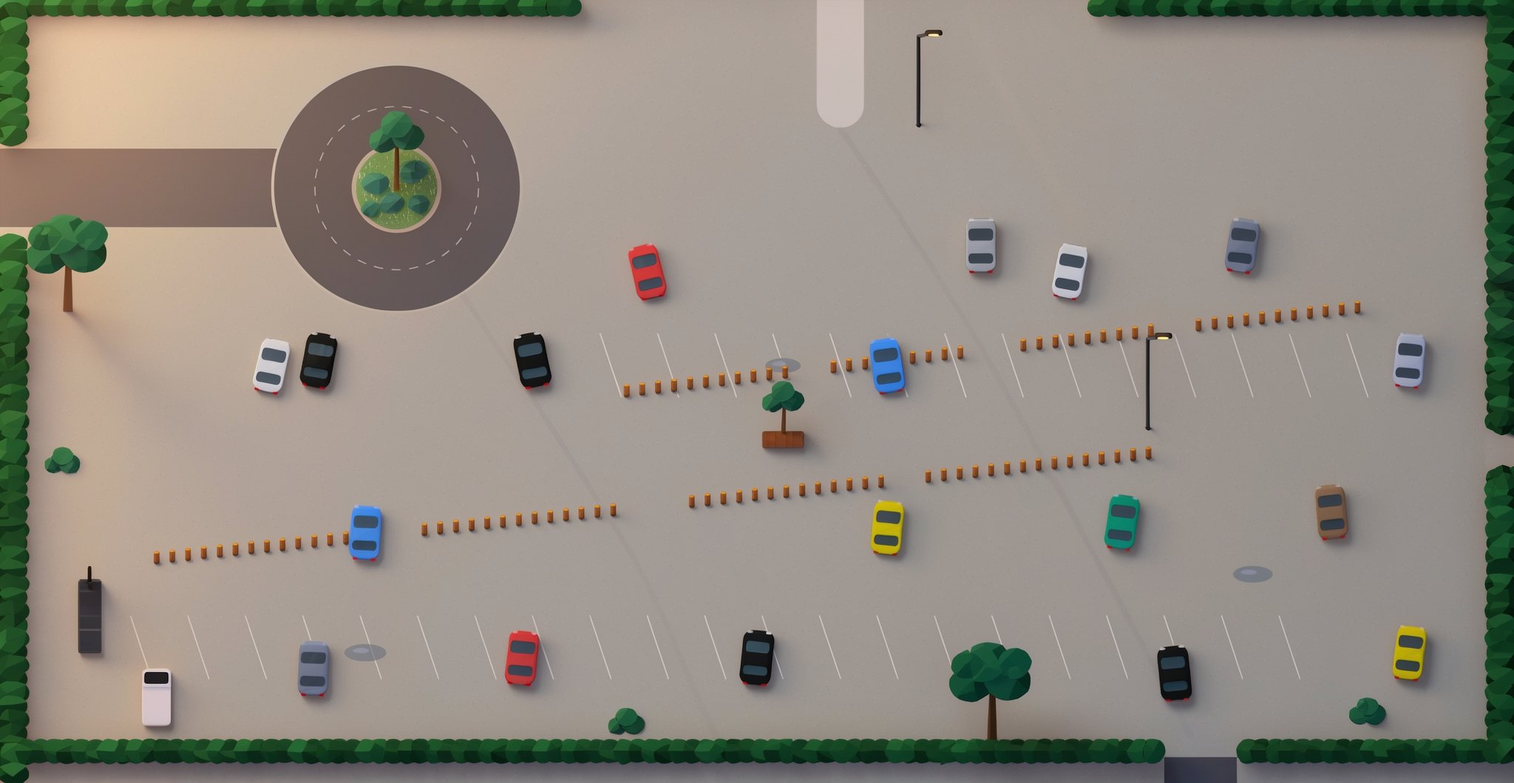
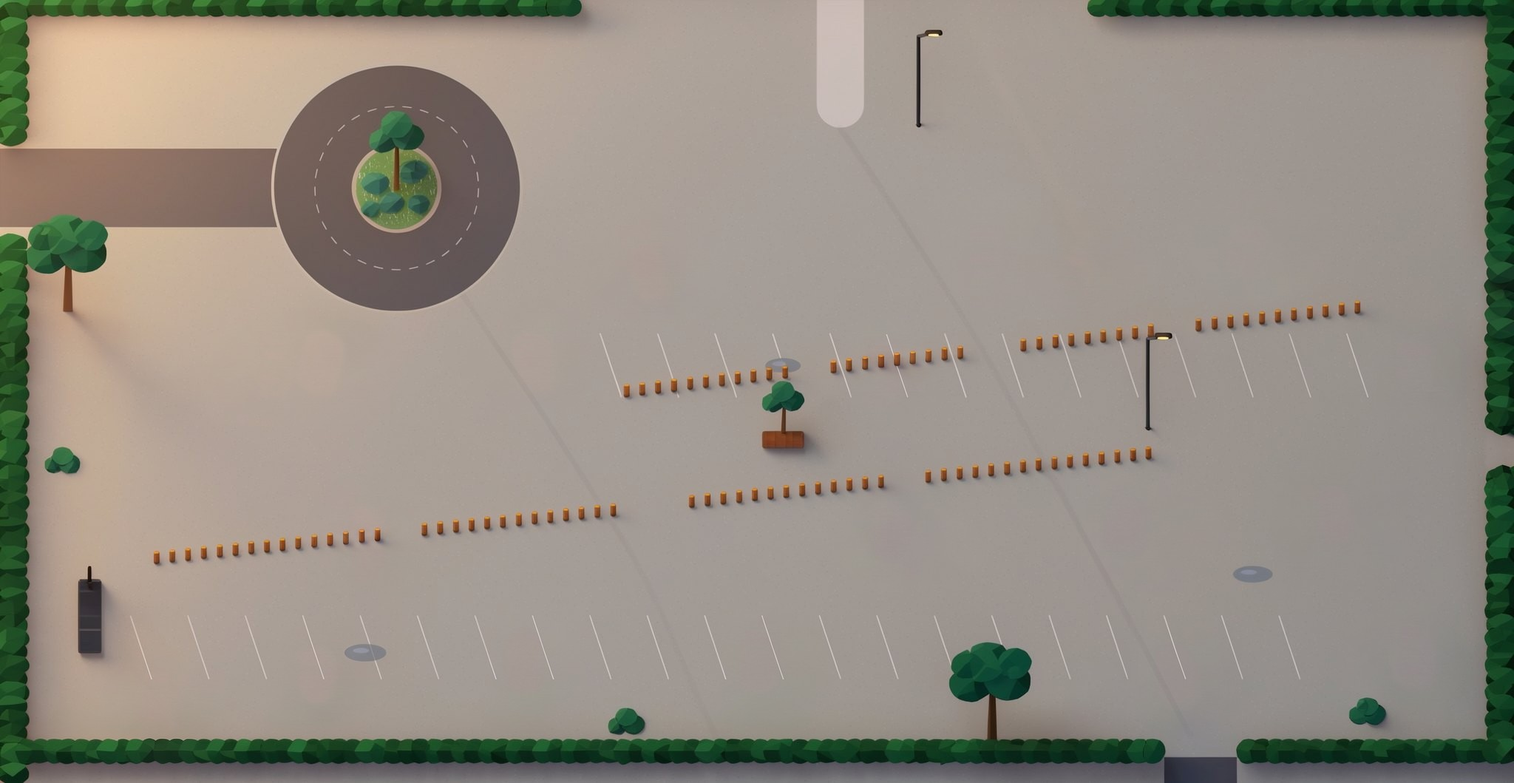
Laufraster aus den gemalten Karten, Figuren kleiner, Laufanimation 4 Bilder, Parkplatz-Autos in Buchten, keine Wegweiser, Tore bleiben offen, Weltkarte einheitlich, Rutschen-Pose, Spielzeit wird mitgespeichert
Claude-Session: https://claude.ai/code/session_01Qhb842PDzUHjhoZQzbWqNn

diff --git a/js/lpwalk.js b/js/lpwalk.js
@@ -1,0 +1,8 @@
+// Laufmasken aus den gemalten Karten (eine Zeile je Zellreihe, 1 = begehbar). Erzeugt aus Bodenfarbe + Möbel-Kernen, nicht von Hand ändern.
+const LP_WALK = {
+  kueche: { gw: 56, gh: 36, rows: '00000000000000000000000000000000000000000000000000000000|00000000000000000000000000000000000000000000000000000000|00000000000000000000000000000000000000000000000000000000|00000000000000000000000000000000000000000000000000000000|00000000000000000000000000000000000000000000000000000000|00000000000000000000000000000000000000000000000000000000|00000011000000000000000000000000000000000000000000000000|00000011000000000000000000000000000000000000000000000000|00000010000000000000000000000000001111000000000000000000|00000001000100010110111110011111111111100000110000000000|00000011111111111111111110011111111111110001111111111000|00000011111000111111111111111111111111111111111111111100|00000011110000110000000011111111111111111111111111111100|00000011110000110000000011111111111111111111111100000000|00000011111001110000000011111111100000000111110000000000|00000011111111110000000000111111100000000111110000000000|00000011111111110000000001111111100000000111110000000000|00000011111111110000000000111111100000000111110000000000|00110011111001110000000000111111100000000111110000000000|00110001111000110000000000111111100000000111110000000000|00100001111000110000000000111111100000000111110000000000|00000001111000110000000000111111100000000111110000000000|00110001111000110000000000111111100000000111110000000000|00111011111111110000000001111111100000000111110000000000|00011111111111110000000000111111100000000111111000000000|00000000000111110000000000111111100000000111111100000000|00000000000110110000000000111111100000000111111110000000|00000000000100110000000000111111100000000111111111100000|00000000000110110000000000111111100000000111111110000000|00000000000110110000000000111111100000000111111110000000|00000000000110110000000011111111100000000111111110000000|00000000000111010000000011111111110000001111111110000000|00000000000100010000000011111111111111111111111110000000|00000000000000011100000111111111111111111111111110000000|00000000000000111111111111111111111111111111111110000000|00000000000000000000000000000000000000000000000000000000' },
+  gastraum: { gw: 60, gh: 40, rows: '000000000000000000000000000000000000000000000000000000000000|000000000000000000000000000000000000000000000000000000000000|000000000000000000000000000000000000000000000000000000000000|000000000000000000000000000000000000000000000000000000000000|000000000000000000000000000000000000000000000000000000000000|000000000000000000000000000000000000000000000000000000000000|000000000000000000000000000000000000000000000000000000000000|000000000000000000000000111111111111111111111111000000000000|000000000000000000000000111100111111111111111111100000000000|000000000000000000000000011000111111111100000111100000000000|000000000000000000000000011000111111111100000111100000000000|000000000000000000000000011000111100000100000111100000000000|000000000000000000000000011000111000000100000111100000000000|000000000000000000000000111000110000000011111111100000000000|000000011111111110000001111111111001100011111111100000000000|000000011111111110000001111111111011110111111111100000000000|000000011111111110000001111111111111011111111111100000000000|000000011111111110000001111111111000000111000001100000000000|000000011111111110000001111111111000000111000001111111111100|000000010000111110000001110000111000000111000001111111111100|000000010000111111100111110000111000000111000001111111111100|001111110000111111111111110000111000000111111111111111111100|001111110000111111111111110000111000000111111111111111100000|001111111000000011111111100000011000000111111111111111000000|001111110000000011111110000000001000000101011111111110000000|001111110000000001111110000000001111111000001111110000000000|001111100000000001111110000000001111111000001111110000011100|001110000000000001111110000000001111111000001111110000110100|001110000000000011111111000000011111111000001111110000000000|001110001000000011111110000000011111111111111111111111000000|001111111000000011111111000000011111111111111111111111000000|001111111000000011111111000000011111111111111111111111000000|001100011000000011111111000000011111101001011011010011000000|001100011110001111111111110001111111000000000000000011000000|001100011111111111111111111111111111000000000000000011000000|001100011111111111111111111111111111000000000000000011000000|001100011111111111111111111111111111110000000000001111100000|000000000000000000000000000000000000000000000000000000000000|000000000000000000000000000000000000000000000000000000000000|000000000000000000000000000000000000000000000000000000000000' },
+  aussen: { gw: 72, gh: 32, rows: '000000000000000000000000000000000000000000000000000000000000000000000000|000000111111111111111111111111111111111111011111111111111111111110011000|000000111111111111111111111111111111111111111111111111111111111110000000|000000111111111111111111111111111111111111111111111111111111111110000000|000000001111111111111111111111111111111111111111111111111111111110000000|000000000111111111111111111111111111111111111111111111111111000110000000|001110000111111100111100111111111111111111111111011011111110111010000000|001110000111111100111100111111110000111111111111000011111100111011100000|001110000111111110011110111101110000111110011111000011111100000011111000|001110000100001110000000111000001001111111011111000011111100000111111100|001111100100001110000000111000001011111111111111000011111100000111111100|001111100100001110000000111000001011111110011111000011111100000111111100|001111100111111110011110111111111011111111011110000011111100000111111100|001111111111111111111111111111111111111111111111100111111111001111111100|001111101111111111111111111111111111111111011111111111111111111101111100|001111000100001110000000111000001000111111011111111111111111110010001100|001111000100001110000000111000001000011111111111111111111111111000011100|001111100100001110000000111000001000011111011111111111111111110000001100|001111100111111110011110111111111000011110011111111111111111110000011100|001111111111111111111111111111111000011111111111111111111111110000011000|001111111111111111111111111111111000011111111111111111111111110000011000|001111111111111111110111111111111111111111111111111111111111110000011000|001111111111111111111111111111111111110011111111111111111111110000000000|001111111111111111111111111111111111000000111111111111111111111111000000|001111111111111111111111111111111111000000111101111111111111111111000000|001111111111111111111000111111111111000000111001111111111111111110000000|001111111111111111111000111100000111000000111111111111111111111110000000|001111111111111111110000111000000111100000111111111111111111111110000000|001111111111111111111111111000000111100000111111111111111111111110000000|001111111111111111111111111111111111100000111111111111111111111110000000|000000000000000000000000000000000000000000000000000000001110000000000000|000000000000000000000000000000000000000000000000000000001110000000000000' },
+  parkplatz: { gw: 116, gh: 60, rows: '00000000000000000000000000000000000000000000000000000000000000000000000000000000000000000000000000000000000000000000|00000000000000000000000000000000000000000000000000000000000000000000000000000000000000000000000000000000000000000000|00011111111111111111111111111111111111111111111111111111111111100011111111111111111111111111111111111111111111111100|00011111111111111111111111111111111111111111111111111111111111100011111111111111111111111111111111111111111111111100|00111111111111111111111111111111111111111111111111111111111111100011111111111111111111111111111111111111111111111100|00111111111111111111111111111111111111111111111111111111111111100011110011111111111111111111111111111111111111111100|00111111111111111111111111111111111111111111111111111111111111100011110011111111111111111111111111111111111111111100|00011111111111111111111111111111111111111111111111111111111111100011110011111111111111111111111111111111111111111100|00011111111111111111111111111101111111111111111111111111111111100011110011111111111111111111111111111111111111111100|00011111111111111111111111111000111111111111111111111111111111110111110011111111111111111111111111111111111111111100|00111111111111111111111111110000011111111111111111111111111111111111111111111111111111111111111111111111111111111100|00000000000001111111111111110000011110111111111111111111111111111111111111111111111111111111111111111111111111111100|00000000000001111111111111100000001110011111111111111111111111111111111111111111111111111111111111111111111111111100|00000000000011111111111111100000001111011111111111111111111111111111111111111111111111111111111111111111111111111100|00000000000111111111111111100000001111101111111111111111111111111111111111111111111111111111111111111111111111111100|00000000101111111111111111100000001111011111111111111111111111111111111111111111111111111111111111111111111111111100|00000000111111111111111111100000001110011111111111111111111111111111111111111111111111111111111111111111111111111100|00000000111111111111111111110000011110011111111111111111111111111111111111111111111111111111111111111111111111111100|00000000111111111111111111111111001000011111111111111111111111111111111111111111111111111111111111111111111111111100|00000000111111111111111111111111000000111111111111111111111111111111111111111111111111111111111111111111111111111100|00000000111111111111111111111111000001111111111111111111111111111111111111111111111111111111111111111111111111111100|00000000111111111111111111111110000011111111111111111111111111111111111111111111111111111111111111111111111111111100|00000000111111111111111111111100000111111111111111111111111111111111111111111111111111111111111111111111111111111100|00000000111111111111111111111000111111111111111111111111111111111111111111111111111111111111111111110000011111111100|00000001111111111111111111111111111111111111111111111111111111111111111111111111111111111110000000000000011111111100|00111111111111111111111111111111111111111111111000000001111100001111100001111111111000000000000000000000111111111100|00111111111111111111111111111111111111111111111000000001111100001111100000111100000000000001111000010000111111111100|00111111111111111111111111111111111111111111111000000001111100000000000000111101111111000001111000010000111111111100|00111111111111111111111111111111111111111111111000000001000000000000000001111111111111000001111000010000111111111100|00111111111111111111111111111111111111111111111000000000000000001111100001111111111111000001111000010000111111111100|00111111111111111111111111111111111111111111111000000001111000001111100001111111111111100011111100010001111111111100|00111111111111111111111111111111111111111111111111111111111001111111111111111111111111100011111111111111111111111100|00111111111111111111111111111111111111111111111111111111111001111111111111111111111111100011111111111111111111111100|00111111111111111111111111111111111111111111111111111111110000111111111111111111111111111111111111111111111111111100|00110111111111111111111111111111111111111111111111111111111000111111111111111111111110000111111111111111111111111100|00100011111111111111111111111111111111111111111111111111111111111111111111100000000000000111111111111111111111111100|00110011111111111111111111111111111111111111111111111111111111111100110000000000011111111111111111111111111111111100|00111111111111111111111111111111111111111111111111111111100000000000110011111111111111111111111111111111111111111100|00111111111111111111111111111111111111111111111111110000000000111111111111111111111111111111111111111111111111111100|00111111111111111111111111111111111111000000000011111111111111111111111111111111111111111111111111111111111111111100|00111111111111111111111111110011000000000001111111111111111111111111111111111111111111111111111111111111111111111100|00111111111111111110000000000011001111111111111111111111111111111111111111111111111111111111111111111111111111111100|00111111111000000000000001111111111111111111111111111111111111111111111111111111111111111111111111111111111111111100|00111111111000011111111111111111111111111111111111111111111111111111111111111111111111111111111111111111111111111100|00111100111111111111111111111111111111111111111111111111111111111111111111111111111111111111111111111111111111111100|00111100111111111111111111111111111111111111111111111111111111111111111111111111111111111111111111111111111111111100|00111100111111111111111111111111111111111111111111111111111111111111111111111111111111111111111111111000111111111100|00111100111000011111000000000000011110000111110000000001111111110000111111111111100001000011110000011000111111111100|00111100111000011111000000000000011110000111110000000001111111110000111111111111100001000011110000011000111111111100|00111100111000011111000000000000011110000111110000000001111111110000111111100111100001000011110000011000111111111100|00111100111000011111000000000000011110000111110000000001111111110000111110000001100001000011110000011000111111111100|00111111111000011111000000000000011110000111110000000001111111110000111110000001100001000011110000011111111111111100|00111111111000011111000110001000111111000111111000100011111111110001111110000001110001000111111000111111111111111100|00111111111001111111111111111111111111111111111111111111111111111111111110000011111111111111111111111111011111111100|00111111111001111111111111111111111111111111111001111111111111111111111111000011111111111111111111111110001111111100|00111111111001111111111111111111111111111111111001111111111111111111111111000011111111111111111111111111001111111100|00000000000000000000000000000000000000000000000000000000000000000000000000000000000000000000000000000000000000000000|00000000000000000000000000000000000000000000000000000000000000000000000000000000000000000000000000000000000000000000|00000000000000000000000000000000000000000000000000000000000000000000000000000000000000000000000000000000000000000000|00000000000000000000000000000000000000000000000000000000000000000000000000000000000000000000000000000000000000000000' },
+  chalet: { gw: 64, gh: 72, rows: '0000000000000000000000000000000000000000000000000000000000000000|0000000000000000000000000000000000000000000000000000000000000000|0111111111111111111111111111111111111111111111111111111111111110|0111111111111111111111111111111111111111111111111111111111111110|0111111111111111111111111111111111111111111111111111111111111110|0111111111111111111111111111111111111111111111111111111111111110|0111111111111111111111111111111111111111111111111111111111111110|0111111111111111111111111111111111111111111111111111111111111110|0111111111111111111111111111111111111111111111111111111111111110|0110000000000000000000000000000000000000000000000011111111111110|0110000000000000000000000000000000000000000000000011111111111110|0110000000000000000000000000000000000000000000000011111111111110|0110000000000000000000000000000000000000000000000011111111111110|0110000000000000000000000000000000000000000000000011111111111110|0110000000000000000000000000000000000000000000000011111111111110|0110000000001111110001110000010100011111111000000011111111111110|0110010000001111110001110000011100011111110000010011111111111110|0110010000100111111111110000011111111111110000010011111111111110|0110010000111111111111111000000011111111110000010011111111111110|0110011111111111111111110000000011111111110000010011111111111110|0110011111111111111111110000000011111111111111110011111111111110|0110011111111111111111111111111111111111111111110011111111111110|0110011111000000000011111111111100000000000111110011111111111110|0110011111000000000011111111111100000000000111110011111111111110|0110011111000000000011111111111100000000000111110011111111111110|0110011111000000000000111111111100000000000111110011111111111110|0110011111110000000000111111111111000000000111110011111111111110|0110011111111111111111111111111011111111111111110011111111111110|0110011111111111111111111111111111111111111111110011111111111110|0110011111111111111110000000000011111111111111110011111111111110|0110010001111111111110000000000011111111111110010011111111111110|0110010001111111111110000000000011111111111110010011111111111110|0110010001111111111110000000000011111111111110010011111111111110|0110011111111111111110000000000001111111111111110011111111111110|0110011111111111111111100000000011111111111111110011111111111110|0110011111101111111111111111111111111111111111110011111111111110|0110011111001111111110000000000011111111111111110011111111111110|0110011111000111111110000000000011111111111000110011111111111110|0110011000000111111110000000000011111111111000110011111111111110|0110011000111111111110000000000011111111001000110011111111111110|0110011111111111111110000000000011111111001101110011111111111110|0110000000000000000111000000000000000000000000000011111111111110|0110000000000000001111000000000000000000000000000011111111111110|0111111111111110011111111111111111100001111111111111111111111110|0100001111111110011111111111111111100001111111111111111111111110|0100001111111110011111111111100000100001111111111111000000001110|0100001111111100011111111111000000000001111111111111000000001110|0100001111111111111111110001000000000001111111111111000000000000|0100001111100111111111110001000000011011111111111111110001110000|0110111111100111111111110001111111111111111111000011111111110000|0111111111100111111111111111111111111111111111000011111111110000|0111111011100111111111111111111111111111111111000011111111110000|0111110001111111111111111111111111111111111111000011111111111000|0111110011111111111111100111111111111111111111000011111111111110|0111111111111111111111100111111111111111111111000111111111111110|0111111111111111111111100111111111111111111111001111111110000110|0111111111111111111111111111111111111111111111001111111110000110|0111111000000111111111111111111111111111111111111111111110000110|0111111000110000111111111111111111111111111111111111111110000110|0111111111110000111111111111111111111111111111111111111110000110|0110000111110000111111111111111111111111111111111111111111001110|0110000111110000111111111111111111111111111111111111111111111110|0110000111110000111111111111111110001111111111111111000111111110|0110000111110000111111111111111110001100001111111111000111111110|0110000111111111111111111111111111000100001111111111000110000110|0110000111111110011111111111111111000100001111111111000110000110|0111011111111110011111100011111111000100001111111111111110000110|0110001111111110011111100011111111111100001111111111111110000110|0110001111111111111111111111111111111110011111111111111110000110|0000000000000000001111000000000000000000000000000000000000000000|0000000000000000000000000000000000000000000000000000000000000000|0000000000000000000000000000000000000000000000000000000000000000' },
+};

diff --git a/js/lowpoly.js b/js/lowpoly.js
@@ -9,14 +9,14 @@ const LP = {
     kueche: { map: 'assets/lowpoly/kueche/map.jpg?v=2', staff: { k_nina: 'nina', k_tom: 'tom', k_luca: 'luca', k_marco: 'marco', k_lea: 'lea' } },
     gastraum: { map: 'assets/lowpoly/gastraum/map.jpg?v=2', staff: {} },
     aussen: { map: 'assets/lowpoly/aussen/map.jpg?v=1', staff: {} },
-    parkplatz: { map: 'assets/lowpoly/parkplatz/map.jpg?v=2', staff: {} },
+    parkplatz: { map: 'assets/lowpoly/parkplatz/map.jpg?v=3', staff: {} },
     uebung: { map: 'assets/lowpoly/uebung/map.jpg?v=1', staff: {} },
     chalet: { map: 'assets/lowpoly/chalet/map.jpg?v=2', staff: {} },
     spielplatz: { map: 'assets/lowpoly/spielplatz/map.jpg?v=3', staff: {}, roof: [518, 395, 288, 168] },   // Schaukelgerüst, Rutsche, Treppe, Häuschen sind im Bild; Dach extra (wird durchsichtig)
   },
   zoomK: 0.72,   // Zoom in allen Bereichen gleich (Küche als Maß)
   playerArt: true,   // gemalte Spielfigur (Löwe/Bär/Hund); andere Tiere zeichnen weiter die alte Figur
-  catH: 96, staffH: 118, part: 2,   // Kamera: man sieht etwa 1/2 des Raums, auf jedem Bildschirm gleich
+  catH: 74, staffH: 90, part: 2,   // Kamera: man sieht etwa 1/2 des Raums, auf jedem Bildschirm gleich
     // Figurengröße passend zu den Möbeln im Bild
   img: {}, ready: false, runs: {},
   player: { face: 'front', flip: 1, dist: 0, lx: null, ly: null },
@@ -68,6 +68,7 @@ function lpOcclude(c, x, y, w, h) {
     c.drawImage(im, cx * CELL * sx, cy * CELL * sy, CELL * sx, CELL * sy, cx * CELL, cy * CELL, CELL + 0.5, CELL + 0.5);
   }
 }
+const LP_STEP = [0, 1, 3, 4];   // Laufbilder 3 und 6 stehen fast still (hakt) – nur die 4 Schrittbilder
 function lpSprite(c, im, x, y, h, flip = 1, bob = 0, tilt = 0) {
   const w = h * im.naturalWidth / im.naturalHeight;
   c.save(); c.translate(x, y);
@@ -91,7 +92,8 @@ function lpDrawPlayer(c, p, x, y, tilt, kind) {
     if (Math.abs(dx) > Math.abs(dy) * 0.8) { P.face = 'side'; P.flip = dx < 0 ? -1 : 1; } else P.face = dy < 0 ? 'back' : 'front';
     P.dist += d;
   }
-  const im = (p.moving && lpSpr(`${set}${P.face}_${Math.floor(P.dist / 11) % 6}`)) || lpSpr(set + 'stand_front');
+  if (p.slide) { const sim = lpSpr(set + 'stand_side') || lpSpr(set + 'stand_front'); lpSprite(c, sim, x, y + 6, LP.catH * 0.92, 1, 0, 0.42); P.face = 'side'; P.flip = 1; return true; }   // Rutschen: seitlich, nach vorn geneigt wie die Rutsche
+  const im = (p.moving && lpSpr(`${set}${P.face}_${LP_STEP[Math.floor(P.dist / 14) % 4]}`)) || lpSpr(set + 'stand_front');
   lpSprite(c, im, x, y, LP.catH, p.moving && P.face === 'side' ? P.flip : 1, p.moving ? 0 : Math.sin(p.t * 2.2) * 0.6, tilt || 0);
   return true;
 }
@@ -227,13 +229,13 @@ function lpPigeonWrap(orig) {
     c.save(); c.translate(x, y); c.scale(dir < 0 ? -1 : 1, 1); c.drawImage(im, -w / 2, -h, w, h); c.restore();
   };
 }
-// Leute (Gäste, Kinder, Kellner …): gemaltes Bild, 25 % größer als die alte Figur, leichtes Wippen; winken = kleiner Hüpfer
+// Leute (Gäste, Kinder, Kellner …): gemaltes Bild, etwa so groß wie die alte Figur (passend zu Stühlen/Tischen), leichtes Wippen; winken = kleiner Hüpfer
 const LP_LEUTE = new Set(["a_hoffmann", "a_klaus", "a_mila", "a_noah", "a_ober", "a_weber", "c_anna", "c_berger", "c_felix", "c_gerda", "c_sepp", "c_toni", "eule", "fuchs", "g_becker", "g_ben", "g_jonas", "g_lina", "g_rosi", "g_s1", "g_s2", "g_s3", "g_s4", "g_schulz", "g_sophie", "hase", "igel", "leo", "olli", "p_julia", "p_karl", "p_petra", "p_schmidt", "p_tim", "waschbaer"]);   // nur für diese gibt es Bilder
 function lpPersonWrap(orig, kind) {
   return function (c, id, x, y, s, t, o = {}) {
     const im = LP_LEUTE.has(id) && lpSpr('leute/' + id);
     if (!im) return orig.apply(this, arguments);
-    const B = lpMeasure(kind + '_' + id, (g, gx, gy) => orig(g, id, gx, gy, 1, 0, { noShadow: true, staff: true })), h = B.h * s * 1.25, w = im.naturalWidth * h / im.naturalHeight;
+    const B = lpMeasure(kind + '_' + id, (g, gx, gy) => orig(g, id, gx, gy, 1, 0, { noShadow: true, staff: true })), h = B.h * s * 0.96, w = im.naturalWidth * h / im.naturalHeight;
     const bob = o.wave ? Math.abs(Math.sin((t || 0) * 6)) * 4 * s : Math.abs(Math.sin((t || 0) * 1.6 + (o.ph || x))) * 1.2 * s;
     if (!o.noShadow) { c.save(); c.fillStyle = 'rgba(40,25,10,.25)'; ell(c, x, y - 1, w * 0.36, 5 * s); c.fill(); c.restore(); }
     c.drawImage(im, x - w / 2, y - h - bob - (o.sit ? -h * 0.12 : 0), w, h);
@@ -293,7 +295,7 @@ function lpAnimalWrap(orig) {
     const have = new Set(LP_SKIN_HAVE[kind] || []), sk = id && SKINS[id];
     const dir = id && have.has(id) ? id : sk && sk.uniform && have.has('u_' + sk.uniform) ? 'u_' + sk.uniform : 'basis';
     const base = 'spieler/' + kind + '/' + dir + '/', t = o.t || 0;
-    const im = (o.moving && lpSpr(base + 'side_' + (Math.floor(t * 10) % 6))) || lpSpr(base + 'stand_front') || lpSpr('spieler/' + kind + '/basis/stand_front');
+    const im = (o.moving && lpSpr(base + 'side_' + LP_STEP[Math.floor(t * 8) % 4])) || lpSpr(base + 'stand_front') || lpSpr('spieler/' + kind + '/basis/stand_front');
     if (dir !== 'basis' && !lpSpr(base + 'stand_front')) LP_MISS = true;   // Kostüm-Bild lädt noch: Karte nicht mit der Grundfigur merken
     if (!im) { LP_MISS = true; return orig.apply(this, arguments); }
     const B = lpMeasure('animal_' + kind, (g, gx, gy) => orig(g, kind, gx, gy, 1, { noShadow: true, look: DEFAULT_LOOK, noOutfit: true }));
@@ -419,3 +421,7 @@ function lpFogPatch() {
   };
 }
 if (document.readyState === 'loading') document.addEventListener('DOMContentLoaded', lpFogPatch); else setTimeout(lpFogPatch, 0);
+
+// Deko, die im Low-Poly-Modus trotzdem als Sprite gezeichnet wird (nicht im Bodenbild): Autos auf dem Parkplatz
+const LP_DECOR_KEEP = { parkplatz: new Set(['auto']) };
+function lpKeep(id, d) { const K = LP_DECOR_KEEP[id]; return !!(K && K.has(d.t)); }

diff --git a/js/stage.js b/js/stage.js
@@ -83,10 +83,17 @@ function buildGridSpielplatz() {
 const SOFT_DECOR = /tisch|palm|olive|baum|tanne|busch|lampe|laterne|pfosten|treppe|pylon|poller|cypress/;
 function solidDecor() {
   if (!SG || SG.id === 'spielplatz' || !DECOR) return;
+  const MW = typeof LP_WALK !== 'undefined' && typeof LP !== 'undefined' && LP.on && LP.stages[SG.id] && LP_WALK[SG.id];
+  if (MW) {   // gemalte Karte: begehbar ist, was auf dem Bild Boden ist (Laufmaske aus js/lpwalk.js)
+    const R = MW.rows.split('|');
+    for (let y = 0; y < MW.gh; y++) for (let x = 0; x < MW.gw; x++) if (R[y][x] === '0') G0[cellIdx(x * CELL + 12.5, y * CELL + 12.5)] = 0;
+    return;
+  }
   for (const d of DECOR) {
     if (!d.bb || SOFT_DECOR.test(d.t)) continue;
     // gesperrt wird nur der Bereich HINTER dem Möbel (zwischen Oberkante des Bildes und der Standfläche) – dort würde man verdeckt
-    const [bx, by, bw] = d.bb, foot = d.w ? d.y0 : d.y - (d.r || 20);
+    const [bx, by, bw, bh] = d.bb, foot = d.w ? d.y0 : d.y - (d.r || 20);
+    if (typeof LP !== 'undefined' && LP.on && LP.stages[SG.id]) { cellsIn(bx + 8, by + 8, bx + bw - 8, by + bh - 4, i => { G0[i] = 0; }); continue; }   // gemalte Draufsicht: ganzes Möbel samt Stühlen ist fest
     if (foot - by > 30) cellsIn(bx + 10, by + 6, bx + bw - 10, foot, i => { G0[i] = 0; });
   }
 }
@@ -383,7 +390,7 @@ class Play {
     if (opt.cam) { this.camX = opt.cam.x; this.camY = opt.cam.y; }
     this.entered = !!opt.enter;
     this.joy = null; this.pending = null; this.toast = null; this.t = 0; this.searching = null; this.exiting = null; this.sitting = null;
-    this.gateA = this.st.done.gate ? 1 : 0;
+    this.gateA = this.gateOpenNow() ? 1 : 0;
     this.idleT = 0; this.coachSaid = {};
     if (!this.st.secret) this.st.secret = {};
     this.slides = [];
@@ -801,7 +808,7 @@ class Play {
     for (const id in this.npcAnim) { const a = this.npcAnim[id]; a.wave = Math.max(0, a.wave - dt); a.jump = Math.max(0, a.jump - dt); }
     if (this.toast) { this.toast.t += dt; if (this.toast.t > 2.2) this.toast = null; }
     if (this.banner) { this.banner.t += dt; if (this.banner.t > 3.2) this.banner = null; }
-    this.gateA = lerp(this.gateA, this.st.done.gate ? 1 : 0, Math.min(1, dt * 3));
+    this.gateA = lerp(this.gateA, this.gateOpenNow() ? 1 : 0, Math.min(1, dt * 3));
     const hase = this.npcs.find(n => n.swing !== undefined);
     if (hase) { const off = this.seatOff(hase.swing); hase.y = SWING.y + off; hase.z = 24 + Math.abs(off) * 0.35; }
     { const bq = this.bonusQuest();
@@ -853,7 +860,7 @@ class Play {
   updatePlayer(dt) {
     const p = this.p, spd = ABIL_VAL.turbo[ability('turbo')];
     if (p.slide) {
-      p.slide.t += dt / 0.8; const e = Math.min(1, p.slide.t * p.slide.t);
+      p.slide.t += dt / 1.15; const e = Math.min(1, p.slide.t * p.slide.t);
       p.x = lerp(SLIDE.x0 + 8, SLIDE.x1 + 10, e); p.slideZ = HOUSE.fz * (1 - (p.x - SLIDE.x0) / (SLIDE.x1 - SLIDE.x0)); p.dir = 1; p.moving = false;
       if (p.slide.t >= 1) {
         p.slide = null; p.level = 0; p.x = SLIDE.x1 + 12; p.slideZ = 0; const s = this.w2s(p.x, p.y); FX.puff(s.x, s.y, 10); Sfx.play('good'); buzz(30);
@@ -917,6 +924,7 @@ class Play {
     }
   }
   // ---- Suchen ----
+  gateOpenNow() { return !!(this.st.done.gate || (typeof areaCleared === 'function' && !this.mp && areaCleared(this.diff, this.stage))); }   // einmal geschafft = Tor bleibt für immer offen
   canSearch() { const q = this.st.active; return (this.diff !== 'easy' || !!(q && q.team)) && !!q && q.got.some((g, i) => !this.off(q, i)); }
   startSearch() {
     if (this.searching || !this.canSearch() || this.p.slide) return;
@@ -1259,6 +1267,7 @@ class Play {
     const vis = (x, y) => x > vx0 && x < vx1 && y > vy0 && y < vy1;
     const benchRaw = (g, d, sx) => { g.fillStyle = 'rgba(0,0,0,.2)'; ell(g, d.x, d.y + 12, 48, 8); g.fill(); rrPath(g, d.x - 43 + sx, d.y - 18, 86, 12, 4); fs(g, '#a0673a', 3); rrPath(g, d.x - 43 + sx, d.y - 2, 86, 12, 4); fs(g, '#8d5a3b', 3); rrPath(g, d.x - 38, d.y + 8, 8, 10, 2); fs(g, '#495057', 2); rrPath(g, d.x + 30, d.y + 8, 8, 10, 2); fs(g, '#495057', 2); };
     const lampRaw = (g, d) => { g.fillStyle = 'rgba(0,0,0,.2)'; ell(g, d.x, d.y, 12, 4); g.fill(); line(g, d.x, d.y, d.x, d.y - 170, 5, '#adb5bd'); rrPath(g, d.x - 4, d.y - 182, 30, 10, 4); fs(g, '#6c757d', 3); };
+    if (lpActive()) for (const d of DECOR) if (lpKeep(SG.id, d) && vis(d.x, d.y)) L.push({ y: d.y, f: () => SG.decorDraw[d.t](c, d, t, 0) });   // z. B. Autos auf dem Parkplatz: als gemalte Sprites, nicht im Bild
     for (const d of (lpActive() ? [] : DECOR)) {   // Low-Poly: Möbel sind im Bodenbild
       { const B = BB_CACHE[SG.id + '_d_' + d.id] || d.bb; if (B ? (B[0] > vx1 || B[0] + B[2] < vx0 || B[1] > vy1 + 100 || B[1] + B[3] < vy0 - 200) : !vis(d.x, d.y)) continue; }   // hohe/lange Möbel: ganze Fläche zählt
       const sh = this.shake[d.id] || 0, k = SG.id + '_d_' + d.id;

diff --git a/js/world.js b/js/world.js
@@ -184,11 +184,12 @@ Object.assign(Play.prototype, {
     const inView = (x0, y0, w, h) => !(x0 > vx1 || x0 + w < vx0 || y0 > vy1 || y0 + h < vy0);
     // eigene Durchgangs-Sperren + Wegweiser
     pushLinkBarriers(c, L, this.stage, 0, 0, this.diff, t);
-    pushSigns(c, L, this.stage, this.diff, t);
+    if (!(typeof LP !== "undefined" && LP.on)) pushSigns(c, L, this.stage, this.diff, t);   // Low-Poly: keine Wegweiser-Schilder (User-Wunsch)
     for (const N of this.nb || []) {
       if (N.fog || !this.tileVisible(N.ox, N.oy, N.w, N.h)) continue;
       const { ox, oy, D } = N, tr = f => () => { c.save(); c.translate(ox, oy); f(); c.restore(); };
       const lpN = typeof lpFor === 'function' && lpFor(N.id);   // Low-Poly: Möbel/Deko sind schon im Bodenbild
+      if (lpN) for (const d of D.decor) if (lpKeep(N.id, d) && inView(d.x - 80 + ox, d.y - 140 + oy, 160, 160)) L.push({ y: d.y + oy, f: tr(() => D.decorDraw[d.t](c, d, t, 0)) });
       for (const d of (lpN ? [] : D.decor)) {
         const bb = BB_CACHE[N.id + '_d_' + d.id] || decorBB(d); if (!inView(bb[0] + ox, bb[1] + oy, bb[2], bb[3] + 100)) continue;
         const fn = decorStatic(N.id, D, d); if (fn) L.push({ y: d.y + (d.zy || 0) + (d.t === 'bench' ? 10 : 0) + oy, f: tr(() => fn(c, t)) });
@@ -363,9 +364,9 @@ class WorldMap {
     c.save(); c.beginPath(); c.rect(mx, my, mw, mh); c.clip(); c.drawImage(T.cv, mx, my, mw, mh);
     for (const id of Object.keys(WORLD_XY)) {
       const [wx, wy] = WORLD_XY[id], x = X(wx), y = Y(wy), tw = areaW(id) * sc, th = areaH(id) * sc;
-      const open = areaUnlocked(this.play.diff, id), img = GROUND_CACHE[id], here = id === this.play.stage, cl = areaCleared(this.play.diff, id);
+      const open = areaUnlocked(this.play.diff, id), lpm = typeof LP !== 'undefined' && LP.on && LP.img['map_' + id], img = lpm && lpm.complete && lpm.naturalWidth ? lpm : GROUND_CACHE[id], here = id === this.play.stage, cl = areaCleared(this.play.diff, id);
       if (img) c.drawImage(img, x, y, tw, th); else { c.fillStyle = STAGE_COL[id] || '#ddd'; c.fillRect(x, y, tw, th); stageIcon(c, id, x + tw / 2, y + th * 0.42, Math.min(tw, th) * 0.3); }
-      if (!open) { c.fillStyle = 'rgba(210,220,224,.92)'; c.fillRect(x, y, tw, th); icon(c, 'lock', x + tw / 2, y + th * 0.42, Math.min(tw, th) * 0.3); }
+      if (!open) { c.fillStyle = img ? 'rgba(210,220,224,.62)' : 'rgba(210,220,224,.92)'; c.fillRect(x, y, tw, th); icon(c, 'lock', x + tw / 2, y + th * 0.42, Math.min(tw, th) * 0.3); }
       c.lineWidth = here ? 4 : 2; c.strokeStyle = here ? '#ffd166' : 'rgba(0,0,0,.35)'; c.strokeRect(x, y, tw, th);
       const lab = (cl ? '✓ ' : '') + STAGE_NAME[id]; c.font = `900 ${Math.max(10, Math.min(14, tw / 8))}px ${FONT}`; const lw = c.measureText(lab).width + 14;
       rrPath(c, x + tw / 2 - lw / 2, y + th - 26, lw, 20, 9); fs(c, here ? '#ffd166' : open ? 'rgba(255,255,255,.95)' : 'rgba(255,255,255,.7)', 1.5);

diff --git a/js/core.js b/js/core.js
@@ -65,7 +65,7 @@ const Net = {
       return { status: r.status, data };
     } catch (e) { return null; }
   },
-  dataOf(a) { return { tut: a.tut, recent: a.recent, recentEasy: a.recentEasy, diff: a.diff, sound: a.sound, soundV2: true, char: a.char || null, meta: a.meta || null, swingBest: a.swingBest || 0, vol: a.vol || null, limitMin: a.limitMin || 0, gt: a.gt || null, bt: a.bt || null, parentPin: a.parentPin || null }; },
+  dataOf(a) { return { tut: a.tut, recent: a.recent, recentEasy: a.recentEasy, diff: a.diff, sound: a.sound, soundV2: true, char: a.char || null, meta: a.meta || null, swingBest: a.swingBest || 0, vol: a.vol || null, limitMin: a.limitMin || 0, playDay: a.playDay || null, playSec: a.playSec || 0, gt: a.gt || null, bt: a.bt || null, parentPin: a.parentPin || null }; },
   soon() { clearTimeout(this.tm); this.tm = setTimeout(() => this.syncNow(), 4000); },
   async syncNow(keep) {
     const a = ACC(); if (!a || !a.token) return;
@@ -106,7 +106,7 @@ setInterval(() => { const a = ACC(); if (a && a.token && (a.changed || 0) > (a.s
 function accFromServer(p) {
   const d = p.data || {}, diff = d.diff || {};
   ['easy', 'medium', 'hard'].forEach(k => { if (!diff[k]) diff[k] = {}; });
-  return { name: p.name, ...(p.code ? { code: p.code } : {}), hasPass: !!p.hasPass, login: p.login, token: p.token, avatar: p.avatar || 0, created: p.created || Date.now(), sound: d.soundV2 ? d.sound !== false : true, soundV2: true, char: d.char || null, tut: d.tut || {}, recent: d.recent || [], recentEasy: d.recentEasy || [], diff, meta: d.meta || undefined, swingBest: d.swingBest || 0, admin: !!p.admin, gameAdmin: !!p.admin, ...(d.vol ? { vol: d.vol } : {}), ...(d.limitMin ? { limitMin: d.limitMin } : {}), ...(d.gt ? { gt: d.gt } : {}), ...(d.bt ? { bt: d.bt } : {}), ...(d.parentPin ? { parentPin: d.parentPin } : {}) };
+  return { name: p.name, ...(p.code ? { code: p.code } : {}), hasPass: !!p.hasPass, login: p.login, token: p.token, avatar: p.avatar || 0, created: p.created || Date.now(), sound: d.soundV2 ? d.sound !== false : true, soundV2: true, char: d.char || null, tut: d.tut || {}, recent: d.recent || [], recentEasy: d.recentEasy || [], diff, meta: d.meta || undefined, swingBest: d.swingBest || 0, admin: !!p.admin, gameAdmin: !!p.admin, ...(d.vol ? { vol: d.vol } : {}), ...(d.limitMin ? { limitMin: d.limitMin } : {}), ...(d.playDay ? { playDay: d.playDay, playSec: d.playSec || 0 } : {}), ...(d.gt ? { gt: d.gt } : {}), ...(d.bt ? { bt: d.bt } : {}), ...(d.parentPin ? { parentPin: d.parentPin } : {}) };
 }
 function adoptAccount(p) {
   Save.data.accounts[p.login] = Object.assign(accFromServer(p), { synced: Date.now(), changed: 0 });

diff --git a/js/stage_parkplatz.js b/js/stage_parkplatz.js
@@ -82,11 +82,12 @@ function drawGroundParkplatz(g, R) {
 const PK_IN = 1610, PK_CH = 860, PK_GATE = 2300;   // Weg vom Spielplatz (oben), Durchgang + Schranke zum Chalet (rechts)
 const car = (id, x, cy, a, col) => ({ id, t: 'auto', x, y: cy + 58, cy, a, col, r: 34, x0: x - 34 - Math.abs(a) * 40, y0: cy - 60, w: 68 + Math.abs(a) * 80, h: 120, bb: [x - 60, cy - 70, 120, 140] });
 const PDECOR = [
-  // am Rand vom Kreisverkehr + in den Reihen geparkt (wie auf dem Bild)
-  car('a1', 520, 700, 0.25, PCOLS[0]), car('a2', 610, 690, 0.2, PCOLS[3]), car('a3', 1020, 690, -0.2, PCOLS[3]), car('a4', 1240, 520, -0.25, PCOLS[2]),
-  car('a5', 700, 1020, 0.05, PCOLS[4]), car('a6', 1450, 1260, 0.1, PCOLS[3]), car('a7', 1880, 470, 0, PCOLS[1]),
-  car('a8', 2050, 520, 0.2, PCOLS[5]), car('a9', 2380, 470, 0.15, PCOLS[6]), car('a10', 1700, 1010, 0.1, PCOLS[7]), car('a11', 2150, 1000, 0.15, PCOLS[8]), car('a12', 2550, 980, -0.1, PCOLS[9]), car('a13', 1000, 1260, 0.1, PCOLS[2]),
-  car('a14', 1700, 700, -0.15, PCOLS[4]), car('a15', 2700, 690, 0.1, PCOLS[0]), car('a16', 600, 1280, 0.05, PCOLS[6]), car('a17', 2250, 1290, -0.1, PCOLS[3]), car('a18', 2700, 1250, 0.12, PCOLS[7]),
+  // ordentlich in den gemalten Parkbuchten (oben 13, unten 20 Buchten, 110 px Abstand, Linien 19° geneigt)
+  car('a1', 1225, 701, -0.34, '#e63946'), car('a2', 1335, 701, -0.34, '#f4a261'), car('a3', 1555, 701, -0.34, '#f8f9fa'), car('a4', 1774, 701, -0.34, '#2a9d8f'),
+  car('a5', 2214, 701, -0.34, '#ffd166'), car('a6', 2434, 701, -0.34, '#4dabf7'), car('a7', 2544, 701, -0.34, '#e63946'), car('a8', 324, 1239, -0.34, '#f4a261'),
+  car('a9', 544, 1239, -0.34, '#f8f9fa'), car('a10', 654, 1239, -0.34, '#2a9d8f'), car('a11', 764, 1239, -0.34, '#ffd166'), car('a12', 983, 1239, -0.34, '#4dabf7'),
+  car('a13', 1203, 1239, -0.34, '#e63946'), car('a14', 1313, 1239, -0.34, '#f4a261'), car('a15', 1643, 1239, -0.34, '#f8f9fa'), car('a16', 2083, 1239, -0.34, '#2a9d8f'),
+  car('a17', 2192, 1239, -0.34, '#ffd166'), car('a18', 2412, 1239, -0.34, '#4dabf7'),
   { id: 'anhaenger', t: 'anhaenger', x: 170, y: 1250, x0: 150, y0: 1110, w: 44, h: 140, bb: [135, 1090, 80, 170] },
   { id: 'transporter', t: 'transporter', x: 300, y: 1390, x0: 272, y0: 1280, w: 56, h: 110, bb: [258, 1260, 90, 140] },
   { id: 'insel', t: 'rbinsel', x: RB.x, y: RB.y + RB.ri, bb: [RB.x - 110, RB.y - 180, 220, 270] },

diff --git a/index.html b/index.html
@@ -21,7 +21,7 @@
 </head>
 <body>
 <canvas id="c"></canvas>
-<script src="js/core.js?v=20261030gr6"></script>
+<script src="js/core.js?v=20261030gr17"></script>
 <script src="js/voiceclips.js?v=20261030gr6"></script>
 <script src="js/art.js?v=20261030gr6"></script>
 <script src="js/brand.js?v=20261030gr6"></script>
@@ -33,14 +33,15 @@
 <script src="js/games5.js?v=20261030gr6"></script>
 <script src="js/games6.js?v=20261030gr6"></script>
 <script src="js/themes.js?v=20261030gr6"></script>
-<script src="js/stage.js?v=20261030gr13"></script>
+<script src="js/stage.js?v=20261030gr18"></script>
 <script src="js/stage_kueche.js?v=20261030gr6"></script>
 <script src="js/stage_gastraum.js?v=20261030gr6"></script>
 <script src="js/stage_aussen.js?v=20261030gr6"></script>
 <script src="js/stage_chalet.js?v=20261030gr7"></script>
-<script src="js/stage_parkplatz.js?v=20261030gr6"></script>
-<script src="js/lowpoly.js?v=20261030gr16"></script>
-<script src="js/world.js?v=20261030gr6"></script>
+<script src="js/stage_parkplatz.js?v=20261030gr18"></script>
+<script src="js/lowpoly.js?v=20261030gr18"></script>
+<script src="js/lpwalk.js?v=20261030gr18"></script>
+<script src="js/world.js?v=20261030gr18"></script>
 <script src="js/tutorial.js?v=20261030gr6"></script>
 <script src="js/ui.js?v=20261030gr13"></script>
 <script src="js/meta.js?v=20261030gr6"></script>
